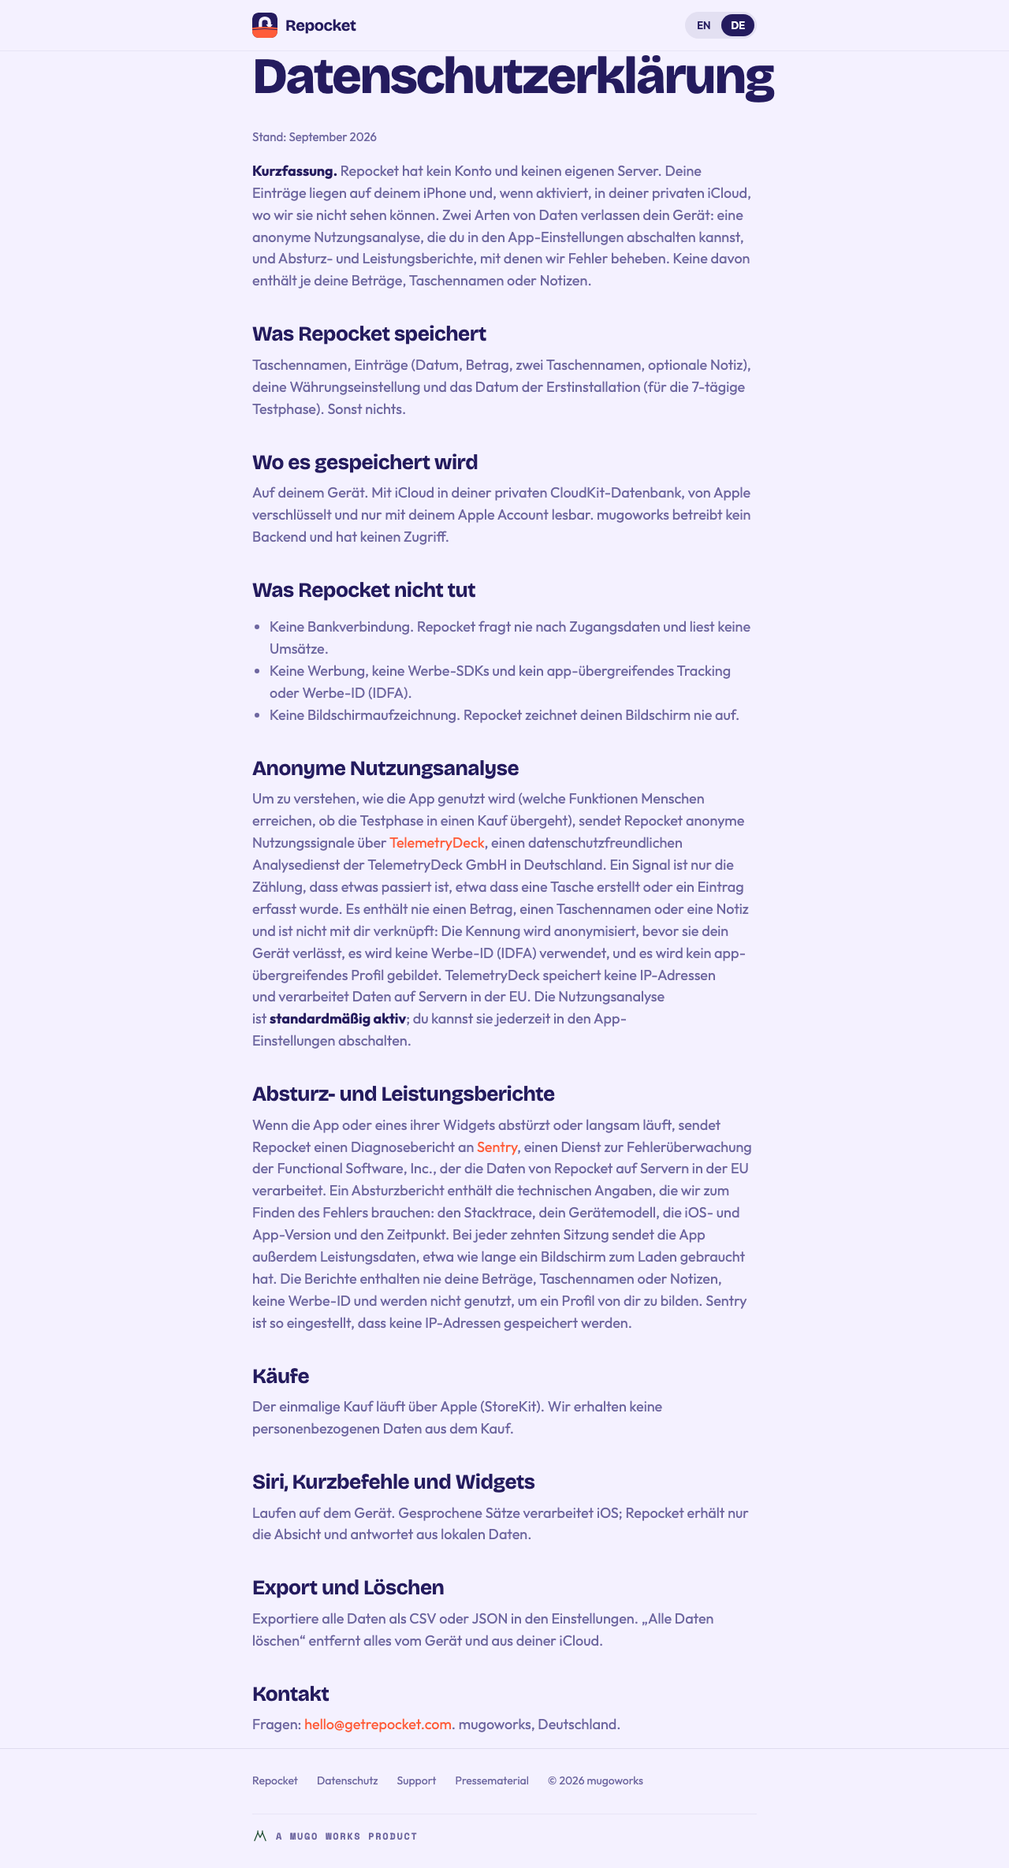
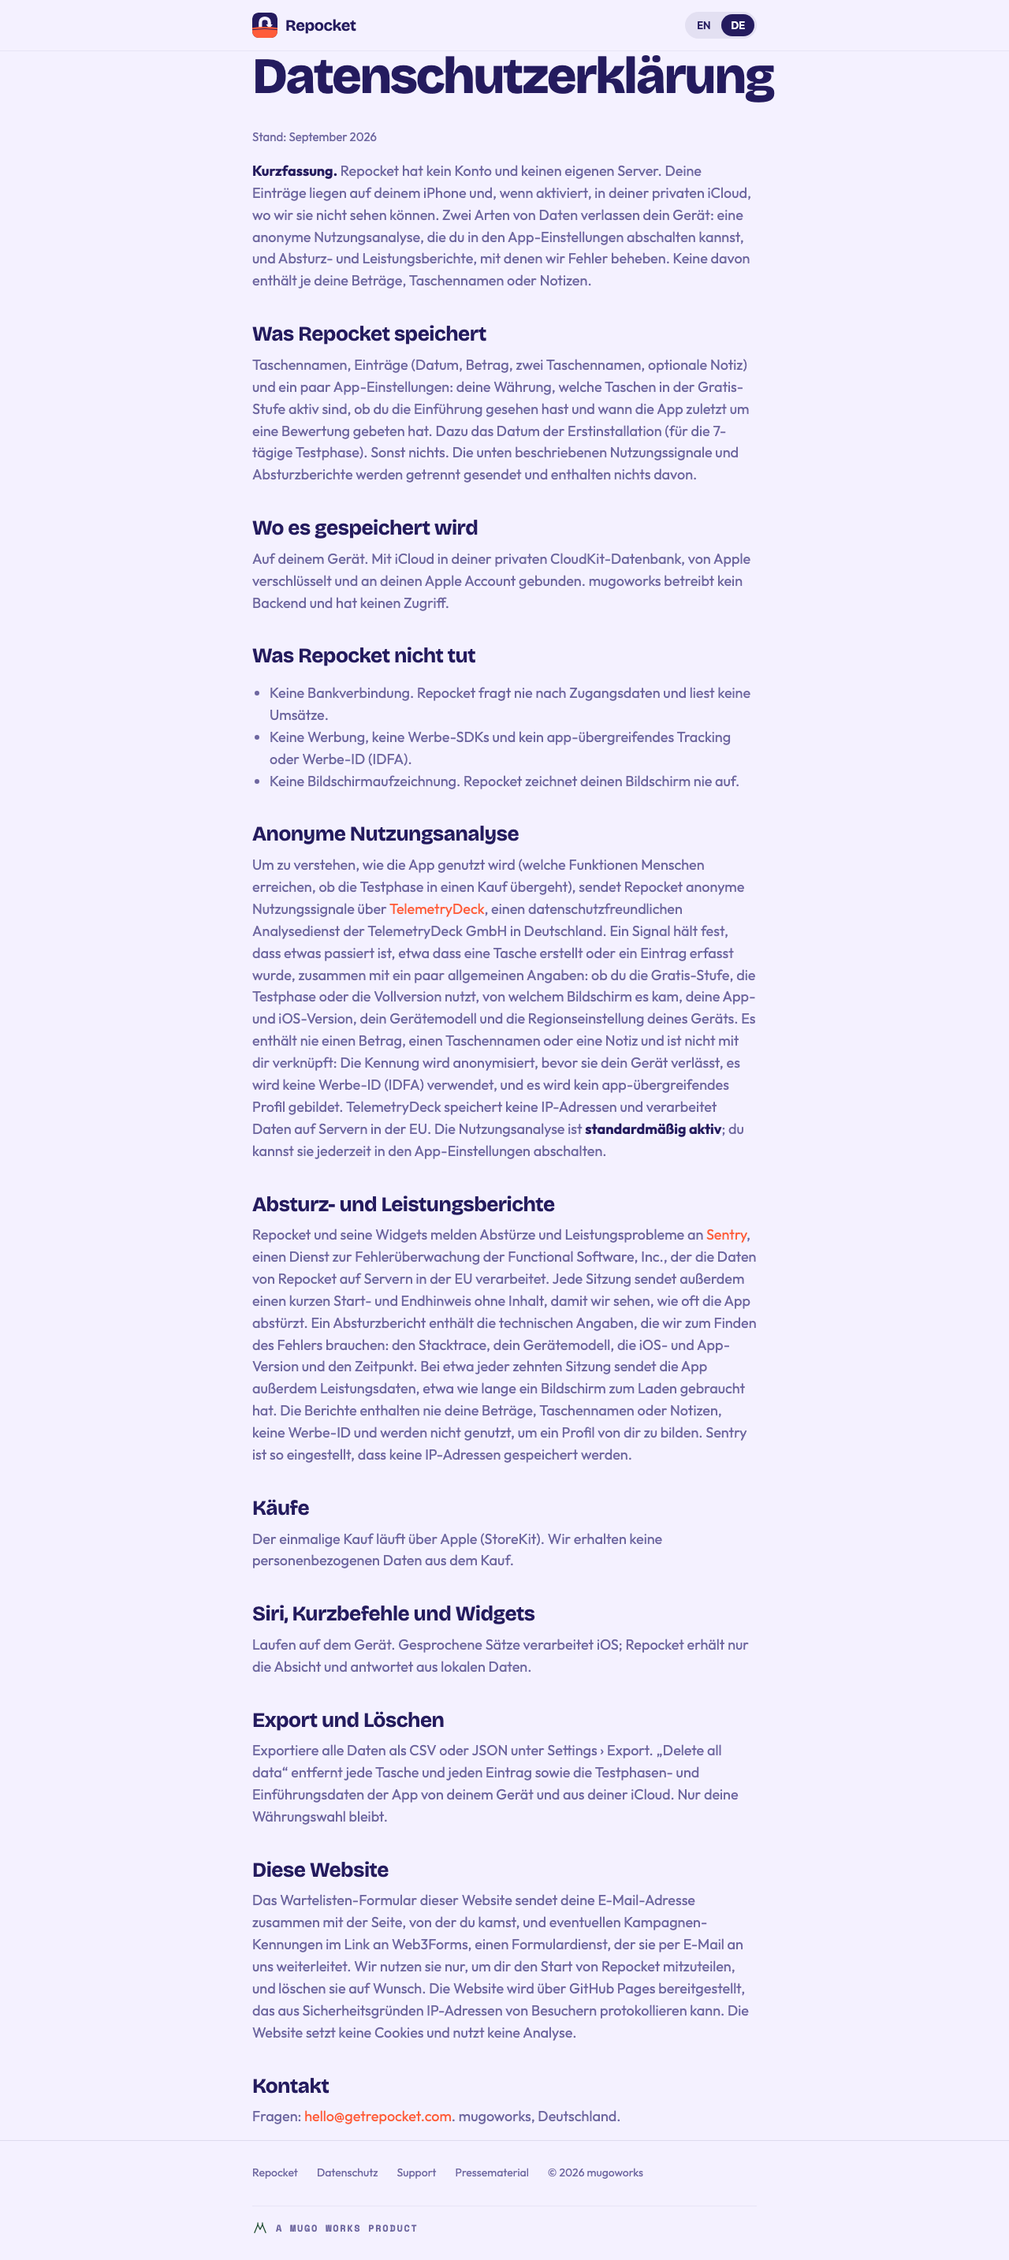
fix(privacy,support): correct stored data, Sentry sessions, deletion, website section and in-app labels [repocket-site-b42]
Bead: repocket-site-b42

Changed region(s): [[0.25, 0.0, 0.7812, 0.9996], [0.375, 0.9683, 0.4062, 0.9996]]

diff --git a/privacy.html b/privacy.html
@@ -12,24 +12,26 @@
 <nav><div class="wrap"><a class="brand" href="index.html"><img src="assets/mark.svg" alt="">Repocket</a><div class="lang" role="group" aria-label="Language"><button data-set="en" aria-pressed="true">EN</button><button data-set="de" aria-pressed="false">DE</button></div></div></nav>
 <main class="wrap"><div data-l="en"><h1>Privacy policy</h1><p><small>Last updated: September 2026</small></p>
 <p><b>Short version.</b> Repocket has no account and no server of our own. Your entries live on your iPhone and, if you enable it, in your private iCloud, where we cannot see them. Two kinds of data leave your device: anonymous usage analytics, which you can switch off in the app's Settings, and crash and performance reports that help us fix bugs. Neither ever carries your amounts, pocket names or notes.</p>
-<h2>What Repocket stores</h2><p>Pocket names, entries (date, amount, two pocket names, optional note), your currency setting, and the date of first install (used for the 7-day trial). Nothing else.</p>
-<h2>Where it is stored</h2><p>On your device. With iCloud enabled, in your private CloudKit database, encrypted by Apple and readable only by your Apple Account. mugoworks operates no backend and has no access.</p>
+<h2>What Repocket stores</h2><p>Pocket names, entries (date, amount, two pocket names, optional note), and a few app settings: your currency, which pockets are active on the free tier, whether you have seen the intro, and when the app last asked for a review. It also keeps the date of first install (used for the 7-day trial). Nothing else. The usage signals and crash reports described below are sent separately and never include any of this.</p>
+<h2>Where it is stored</h2><p>On your device. With iCloud enabled, in your private CloudKit database, encrypted by Apple and tied to your Apple Account. mugoworks operates no backend and has no access.</p>
 <h2>What Repocket does not do</h2><ul><li>No bank connection. Repocket never asks for credentials or reads transactions.</li><li>No advertising, no ad SDKs, and no cross-app tracking or advertising identifier (IDFA).</li><li>No screen recording. Repocket never records your screen.</li></ul>
-<h2>Anonymous usage analytics</h2><p>To understand how the app is used (which features people reach, whether the trial converts), Repocket sends anonymous usage signals through <a href="https://telemetrydeck.com">TelemetryDeck</a>, a privacy-first analytics service run by TelemetryDeck GmbH in Germany. A signal is only a count that something happened, such as a pocket being created or an entry logged. It never carries an amount, a pocket name or a note, and it is not tied to you: the identifier is anonymised before it leaves your device, no advertising identifier (IDFA) is used, and no profile is built across apps. TelemetryDeck stores no IP addresses and processes data on servers in the EU. Usage analytics is <b>on by default</b>; you can switch it off any time from the app's Settings.</p>
-<h2>Crash and performance reports</h2><p>When the app or one of its widgets crashes or runs slowly, Repocket sends a diagnostic report to <a href="https://sentry.io">Sentry</a>, an error-monitoring service run by Functional Software, Inc., which processes Repocket's data on servers in the EU. A crash report contains the technical details needed to find the bug: the stack trace, your device model, the iOS and app version, and when it happened. For 1 in 10 sessions the app also sends performance timings, such as how long a screen took to load. Reports never contain your amounts, pocket names or notes, carry no advertising identifier, and are not used to build a profile of you. Sentry is set up not to store IP addresses.</p>
+<h2>Anonymous usage analytics</h2><p>To understand how the app is used (which features people reach, whether the trial converts), Repocket sends anonymous usage signals through <a href="https://telemetrydeck.com">TelemetryDeck</a>, a privacy-first analytics service run by TelemetryDeck GmbH in Germany. A signal records that something happened, such as a pocket being created or an entry logged, with a few general details: whether you are on the free tier, in the trial or unlocked, which screen it came from, your app and iOS version, device model and your device's region setting. It never carries an amount, a pocket name or a note, and it is not tied to you: the identifier is anonymised before it leaves your device, no advertising identifier (IDFA) is used, and no profile is built across apps. TelemetryDeck stores no IP addresses and processes data on servers in the EU. Usage analytics is <b>on by default</b>; you can switch it off any time from the app's Settings.</p>
+<h2>Crash and performance reports</h2><p>Repocket and its widgets report crashes and performance problems to <a href="https://sentry.io">Sentry</a>, an error-monitoring service run by Functional Software, Inc., which processes Repocket's data on servers in the EU. Each session also sends a short start-and-end notice with no content, so we can see how often the app crashes. A crash report contains the technical details needed to find the bug: the stack trace, your device model, the iOS and app version, and when it happened. For about 1 in 10 sessions the app also sends performance timings, such as how long a screen took to load. Reports never contain your amounts, pocket names or notes, carry no advertising identifier, and are not used to build a profile of you. Sentry is set up not to store IP addresses.</p>
 <h2>Purchases</h2><p>The one-time unlock is processed by Apple through StoreKit. We receive no personal data from the purchase.</p>
 <h2>Siri, Shortcuts and widgets</h2><p>Run on-device. Spoken phrases are handled by iOS; Repocket receives only the intent and answers from local data.</p>
-<h2>Export and deletion</h2><p>Export all data as CSV or JSON from Settings. "Delete all data" removes everything from the device and your iCloud.</p>
+<h2>Export and deletion</h2><p>Export all data as CSV or JSON from Settings. "Delete all data" removes every pocket and entry, and the app's trial and intro records, from your device and your iCloud. Only your currency choice stays.</p>
+<h2>This website</h2><p>The waitlist form on this site sends your email address, together with the page that referred you and any campaign tags in the link, to Web3Forms, a form service that forwards it to us by email. We use it only to tell you when Repocket launches and delete it on request. The site is hosted on GitHub Pages, which may log visitors' IP addresses for security. The site sets no cookies and runs no analytics.</p>
 <h2>Contact</h2><p>Questions: <a href="mailto:hello@getrepocket.com">hello@getrepocket.com</a>. mugoworks, Germany.</p></div><div data-l="de"><h1>Datenschutzerklärung</h1><p><small>Stand: September 2026</small></p>
 <p><b>Kurzfassung.</b> Repocket hat kein Konto und keinen eigenen Server. Deine Einträge liegen auf deinem iPhone und, wenn aktiviert, in deiner privaten iCloud, wo wir sie nicht sehen können. Zwei Arten von Daten verlassen dein Gerät: eine anonyme Nutzungsanalyse, die du in den App-Einstellungen abschalten kannst, und Absturz- und Leistungsberichte, mit denen wir Fehler beheben. Keine davon enthält je deine Beträge, Taschennamen oder Notizen.</p>
-<h2>Was Repocket speichert</h2><p>Taschennamen, Einträge (Datum, Betrag, zwei Taschennamen, optionale Notiz), deine Währungseinstellung und das Datum der Erstinstallation (für die 7-tägige Testphase). Sonst nichts.</p>
-<h2>Wo es gespeichert wird</h2><p>Auf deinem Gerät. Mit iCloud in deiner privaten CloudKit-Datenbank, von Apple verschlüsselt und nur mit deinem Apple Account lesbar. mugoworks betreibt kein Backend und hat keinen Zugriff.</p>
+<h2>Was Repocket speichert</h2><p>Taschennamen, Einträge (Datum, Betrag, zwei Taschennamen, optionale Notiz) und ein paar App-Einstellungen: deine Währung, welche Taschen in der Gratis-Stufe aktiv sind, ob du die Einführung gesehen hast und wann die App zuletzt um eine Bewertung gebeten hat. Dazu das Datum der Erstinstallation (für die 7-tägige Testphase). Sonst nichts. Die unten beschriebenen Nutzungssignale und Absturzberichte werden getrennt gesendet und enthalten nichts davon.</p>
+<h2>Wo es gespeichert wird</h2><p>Auf deinem Gerät. Mit iCloud in deiner privaten CloudKit-Datenbank, von Apple verschlüsselt und an deinen Apple Account gebunden. mugoworks betreibt kein Backend und hat keinen Zugriff.</p>
 <h2>Was Repocket nicht tut</h2><ul><li>Keine Bankverbindung. Repocket fragt nie nach Zugangsdaten und liest keine Umsätze.</li><li>Keine Werbung, keine Werbe-SDKs und kein app-übergreifendes Tracking oder Werbe-ID (IDFA).</li><li>Keine Bildschirmaufzeichnung. Repocket zeichnet deinen Bildschirm nie auf.</li></ul>
-<h2>Anonyme Nutzungsanalyse</h2><p>Um zu verstehen, wie die App genutzt wird (welche Funktionen Menschen erreichen, ob die Testphase in einen Kauf übergeht), sendet Repocket anonyme Nutzungssignale über <a href="https://telemetrydeck.com">TelemetryDeck</a>, einen datenschutzfreundlichen Analysedienst der TelemetryDeck GmbH in Deutschland. Ein Signal ist nur die Zählung, dass etwas passiert ist, etwa dass eine Tasche erstellt oder ein Eintrag erfasst wurde. Es enthält nie einen Betrag, einen Taschennamen oder eine Notiz und ist nicht mit dir verknüpft: Die Kennung wird anonymisiert, bevor sie dein Gerät verlässt, es wird keine Werbe-ID (IDFA) verwendet, und es wird kein app-übergreifendes Profil gebildet. TelemetryDeck speichert keine IP-Adressen und verarbeitet Daten auf Servern in der EU. Die Nutzungsanalyse ist <b>standardmäßig aktiv</b>; du kannst sie jederzeit in den App-Einstellungen abschalten.</p>
-<h2>Absturz- und Leistungsberichte</h2><p>Wenn die App oder eines ihrer Widgets abstürzt oder langsam läuft, sendet Repocket einen Diagnosebericht an <a href="https://sentry.io">Sentry</a>, einen Dienst zur Fehlerüberwachung der Functional Software, Inc., der die Daten von Repocket auf Servern in der EU verarbeitet. Ein Absturzbericht enthält die technischen Angaben, die wir zum Finden des Fehlers brauchen: den Stacktrace, dein Gerätemodell, die iOS- und App-Version und den Zeitpunkt. Bei jeder zehnten Sitzung sendet die App außerdem Leistungsdaten, etwa wie lange ein Bildschirm zum Laden gebraucht hat. Die Berichte enthalten nie deine Beträge, Taschennamen oder Notizen, keine Werbe-ID und werden nicht genutzt, um ein Profil von dir zu bilden. Sentry ist so eingestellt, dass keine IP-Adressen gespeichert werden.</p>
+<h2>Anonyme Nutzungsanalyse</h2><p>Um zu verstehen, wie die App genutzt wird (welche Funktionen Menschen erreichen, ob die Testphase in einen Kauf übergeht), sendet Repocket anonyme Nutzungssignale über <a href="https://telemetrydeck.com">TelemetryDeck</a>, einen datenschutzfreundlichen Analysedienst der TelemetryDeck GmbH in Deutschland. Ein Signal hält fest, dass etwas passiert ist, etwa dass eine Tasche erstellt oder ein Eintrag erfasst wurde, zusammen mit ein paar allgemeinen Angaben: ob du die Gratis-Stufe, die Testphase oder die Vollversion nutzt, von welchem Bildschirm es kam, deine App- und iOS-Version, dein Gerätemodell und die Regionseinstellung deines Geräts. Es enthält nie einen Betrag, einen Taschennamen oder eine Notiz und ist nicht mit dir verknüpft: Die Kennung wird anonymisiert, bevor sie dein Gerät verlässt, es wird keine Werbe-ID (IDFA) verwendet, und es wird kein app-übergreifendes Profil gebildet. TelemetryDeck speichert keine IP-Adressen und verarbeitet Daten auf Servern in der EU. Die Nutzungsanalyse ist <b>standardmäßig aktiv</b>; du kannst sie jederzeit in den App-Einstellungen abschalten.</p>
+<h2>Absturz- und Leistungsberichte</h2><p>Repocket und seine Widgets melden Abstürze und Leistungsprobleme an <a href="https://sentry.io">Sentry</a>, einen Dienst zur Fehlerüberwachung der Functional Software, Inc., der die Daten von Repocket auf Servern in der EU verarbeitet. Jede Sitzung sendet außerdem einen kurzen Start- und Endhinweis ohne Inhalt, damit wir sehen, wie oft die App abstürzt. Ein Absturzbericht enthält die technischen Angaben, die wir zum Finden des Fehlers brauchen: den Stacktrace, dein Gerätemodell, die iOS- und App-Version und den Zeitpunkt. Bei etwa jeder zehnten Sitzung sendet die App außerdem Leistungsdaten, etwa wie lange ein Bildschirm zum Laden gebraucht hat. Die Berichte enthalten nie deine Beträge, Taschennamen oder Notizen, keine Werbe-ID und werden nicht genutzt, um ein Profil von dir zu bilden. Sentry ist so eingestellt, dass keine IP-Adressen gespeichert werden.</p>
 <h2>Käufe</h2><p>Der einmalige Kauf läuft über Apple (StoreKit). Wir erhalten keine personenbezogenen Daten aus dem Kauf.</p>
 <h2>Siri, Kurzbefehle und Widgets</h2><p>Laufen auf dem Gerät. Gesprochene Sätze verarbeitet iOS; Repocket erhält nur die Absicht und antwortet aus lokalen Daten.</p>
-<h2>Export und Löschen</h2><p>Exportiere alle Daten als CSV oder JSON in den Einstellungen. „Alle Daten löschen“ entfernt alles vom Gerät und aus deiner iCloud.</p>
+<h2>Export und Löschen</h2><p>Exportiere alle Daten als CSV oder JSON unter Settings › Export. „Delete all data“ entfernt jede Tasche und jeden Eintrag sowie die Testphasen- und Einführungsdaten der App von deinem Gerät und aus deiner iCloud. Nur deine Währungswahl bleibt.</p>
+<h2>Diese Website</h2><p>Das Wartelisten-Formular dieser Website sendet deine E-Mail-Adresse zusammen mit der Seite, von der du kamst, und eventuellen Kampagnen-Kennungen im Link an Web3Forms, einen Formulardienst, der sie per E-Mail an uns weiterleitet. Wir nutzen sie nur, um dir den Start von Repocket mitzuteilen, und löschen sie auf Wunsch. Die Website wird über GitHub Pages bereitgestellt, das aus Sicherheitsgründen IP-Adressen von Besuchern protokollieren kann. Die Website setzt keine Cookies und nutzt keine Analyse.</p>
 <h2>Kontakt</h2><p>Fragen: <a href="mailto:hello@getrepocket.com">hello@getrepocket.com</a>. mugoworks, Deutschland.</p></div></main>
 <footer><div class="wrap"><a href="index.html">Repocket</a><a href="privacy.html"><span data-l="en">Privacy</span><span data-l="de">Datenschutz</span></a><a href="support.html">Support</a><a href="press.html"><span data-l="en">Press kit</span><span data-l="de">Pressematerial</span></a><span>© 2026 mugoworks</span><div class="mugo-credit-row"><a class="mugo-credit" href="https://mugoworks.com"><img src="assets/mark-on-light.svg" width="20" height="20" alt="mugo works mark"><span>A MUGO WORKS PRODUCT</span></a></div></div></footer>
 <script>(function(){var h=document.documentElement,s=null;try{s=localStorage.getItem('rp-lang')}catch(e){}function set(l){h.setAttribute('data-lang',l);h.lang=l;document.querySelectorAll('.lang button').forEach(function(b){b.setAttribute('aria-pressed',String(b.dataset.set===l))});try{localStorage.setItem('rp-lang',l)}catch(e){}}set(s||((navigator.language||'').slice(0,2)==='de'?'de':'en'));document.querySelectorAll('.lang button').forEach(function(b){b.addEventListener('click',function(){set(b.dataset.set)})})})();</script></body></html>

diff --git a/support.html b/support.html
@@ -12,18 +12,18 @@
 <nav><div class="wrap"><a class="brand" href="index.html"><img src="assets/mark.svg" alt="">Repocket</a><div class="lang" role="group" aria-label="Language"><button data-set="en" aria-pressed="true">EN</button><button data-set="de" aria-pressed="false">DE</button></div></div></nav>
 <main class="wrap"><div data-l="en"><h1>Support</h1><p>Repocket is made by <a href="https://mugoworks.com">mugoworks</a>. Email works best: <a href="mailto:hello@getrepocket.com">hello@getrepocket.com</a>. Expect a reply within two working days.</p>
 <h2>Common questions</h2>
-<div class="card"><b>A pocket is read-only.</b><p>After the trial, the free tier keeps three active pockets. Settings › Active pockets lets you choose which three, or unlock once for €4.99 to lift the cap.</p></div>
-<div class="card"><b>The widget shows "Unlock in Repocket".</b><p>Widgets are part of the one-time unlock. Open the app › ··· › Free trial or Unlock.</p></div>
+<div class="card"><b>A pocket is read-only.</b><p>After the trial, the free tier keeps your three most recently used pockets active and the rest read-only. Archive an active pocket you no longer need (once its debts are settled) and the most recently used read-only pocket takes its place, or unlock once for €4.99 to lift the cap.</p></div>
+<div class="card"><b>The widget shows "Unlock in Repocket".</b><p>Widgets are part of the one-time unlock. In the app, tap the Stats control (the bar chart with a lock) on the Owed screen to unlock.</p></div>
 <div class="card"><b>I bought the unlock on another iPhone.</b><p>Unlock screen › Restore purchase. It is tied to your Apple Account.</p></div>
-<div class="card"><b>Entries are missing on my second device.</b><p>Check iCloud is on for Repocket in iOS Settings › Apple Account › iCloud. Sync usually completes within a minute on Wi-Fi.</p></div>
+<div class="card"><b>Entries are missing on my second device.</b><p>Check iCloud is on for Repocket in iOS Settings › your name › iCloud. Sync usually completes within a minute on Wi-Fi.</p></div>
 <div class="card"><b>I want my data out.</b><p>Settings › Export › CSV or JSON. The file contains every entry and pocket.</p></div>
 <h2>Report a bug</h2><p>Include your iOS version, what you tapped, and what you expected. Screenshots help. Never send bank details; Repocket has none and needs none.</p></div><div data-l="de"><h1>Support</h1><p>Repocket wird von <a href="https://mugoworks.com">mugoworks</a> entwickelt. E-Mail funktioniert am besten: <a href="mailto:hello@getrepocket.com">hello@getrepocket.com</a>. Antwort in der Regel innerhalb von zwei Werktagen.</p>
 <h2>Häufige Fragen</h2>
-<div class="card"><b>Eine Tasche ist schreibgeschützt.</b><p>Nach der Testphase behält die Gratis-Stufe drei aktive Taschen. Unter Einstellungen › Aktive Taschen wählst du, welche drei, oder du schaltest einmalig für 4,99 € frei.</p></div>
-<div class="card"><b>Das Widget zeigt „In Repocket freischalten“.</b><p>Widgets gehören zum einmaligen Kauf. App öffnen › ··· › Testphase oder Freischalten.</p></div>
-<div class="card"><b>Ich habe auf einem anderen iPhone gekauft.</b><p>Freischalten-Bildschirm › Kauf wiederherstellen. Der Kauf hängt an deinem Apple Account.</p></div>
-<div class="card"><b>Einträge fehlen auf meinem zweiten Gerät.</b><p>Prüfe, ob iCloud für Repocket aktiv ist: iOS-Einstellungen › Apple Account › iCloud. Die Synchronisation dauert im WLAN meist unter einer Minute.</p></div>
-<div class="card"><b>Ich will meine Daten raus.</b><p>Einstellungen › Exportieren › CSV oder JSON. Die Datei enthält jeden Eintrag und jede Tasche.</p></div>
+<div class="card"><b>Eine Tasche ist schreibgeschützt.</b><p>Nach der Testphase behält die Gratis-Stufe deine drei zuletzt genutzten Taschen aktiv, die übrigen sind schreibgeschützt. Archiviere eine aktive Tasche, die du nicht mehr brauchst (sobald ihre Schulden ausgeglichen sind), dann rückt die zuletzt genutzte schreibgeschützte Tasche nach, oder schalte einmalig für 4,99 € frei.</p></div>
+<div class="card"><b>Das Widget zeigt „Unlock in Repocket“.</b><p>Widgets gehören zum einmaligen Kauf. Tippe in der App auf dem Owed-Bildschirm auf Stats (das Balkendiagramm mit Schloss), um freizuschalten.</p></div>
+<div class="card"><b>Ich habe auf einem anderen iPhone gekauft.</b><p>Im Freischalten-Bildschirm auf „Restore purchase“ tippen. Der Kauf hängt an deinem Apple Account.</p></div>
+<div class="card"><b>Einträge fehlen auf meinem zweiten Gerät.</b><p>Prüfe, ob iCloud für Repocket aktiv ist: iOS-Einstellungen › dein Name › iCloud. Die Synchronisation dauert im WLAN meist unter einer Minute.</p></div>
+<div class="card"><b>Ich will meine Daten raus.</b><p>Settings › Export › CSV oder JSON. Die Datei enthält jeden Eintrag und jede Tasche.</p></div>
 <h2>Fehler melden</h2><p>Nenne iOS-Version, was du getippt hast und was du erwartet hast. Screenshots helfen. Schick nie Bankdaten; Repocket hat keine und braucht keine.</p></div></main>
 <footer><div class="wrap"><a href="index.html">Repocket</a><a href="privacy.html"><span data-l="en">Privacy</span><span data-l="de">Datenschutz</span></a><a href="support.html">Support</a><a href="press.html"><span data-l="en">Press kit</span><span data-l="de">Pressematerial</span></a><span>© 2026 mugoworks</span><div class="mugo-credit-row"><a class="mugo-credit" href="https://mugoworks.com"><img src="assets/mark-on-light.svg" width="20" height="20" alt="mugo works mark"><span>A MUGO WORKS PRODUCT</span></a></div></div></footer>
 <script>(function(){var h=document.documentElement,s=null;try{s=localStorage.getItem('rp-lang')}catch(e){}function set(l){h.setAttribute('data-lang',l);h.lang=l;document.querySelectorAll('.lang button').forEach(function(b){b.setAttribute('aria-pressed',String(b.dataset.set===l))});try{localStorage.setItem('rp-lang',l)}catch(e){}}set(s||((navigator.language||'').slice(0,2)==='de'?'de':'en'));document.querySelectorAll('.lang button').forEach(function(b){b.addEventListener('click',function(){set(b.dataset.set)})})})();</script></body></html>
